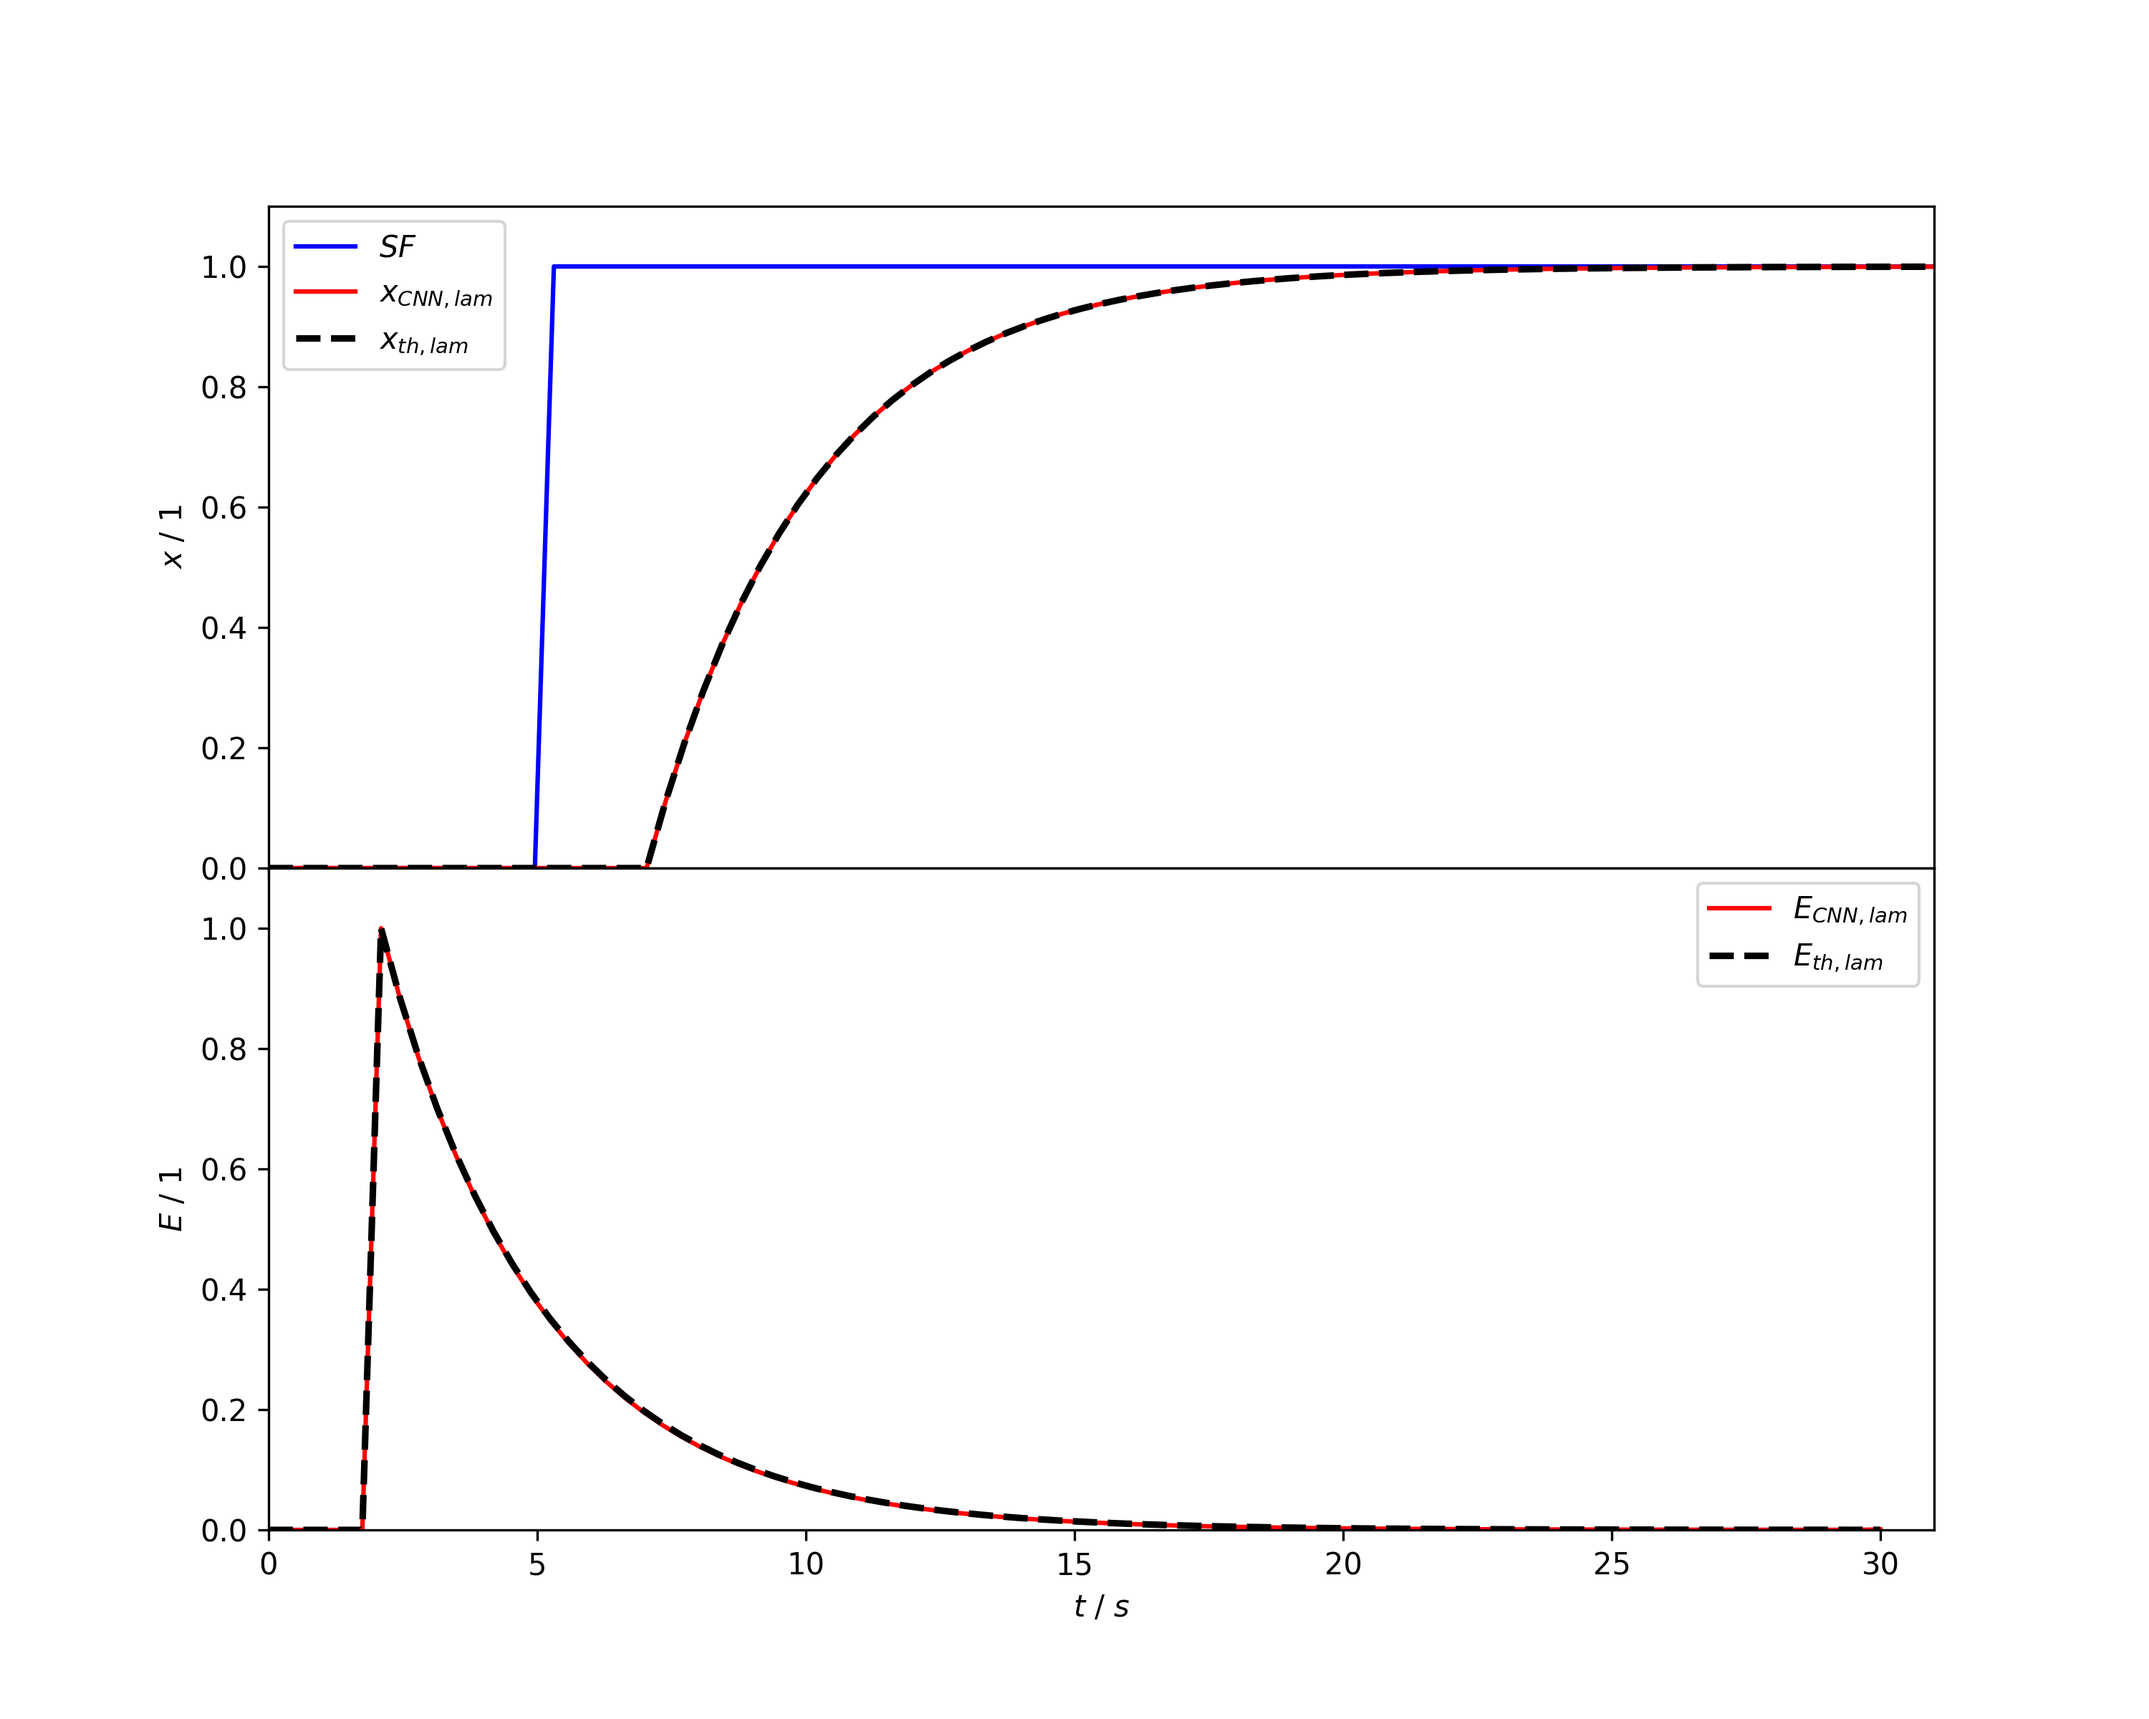
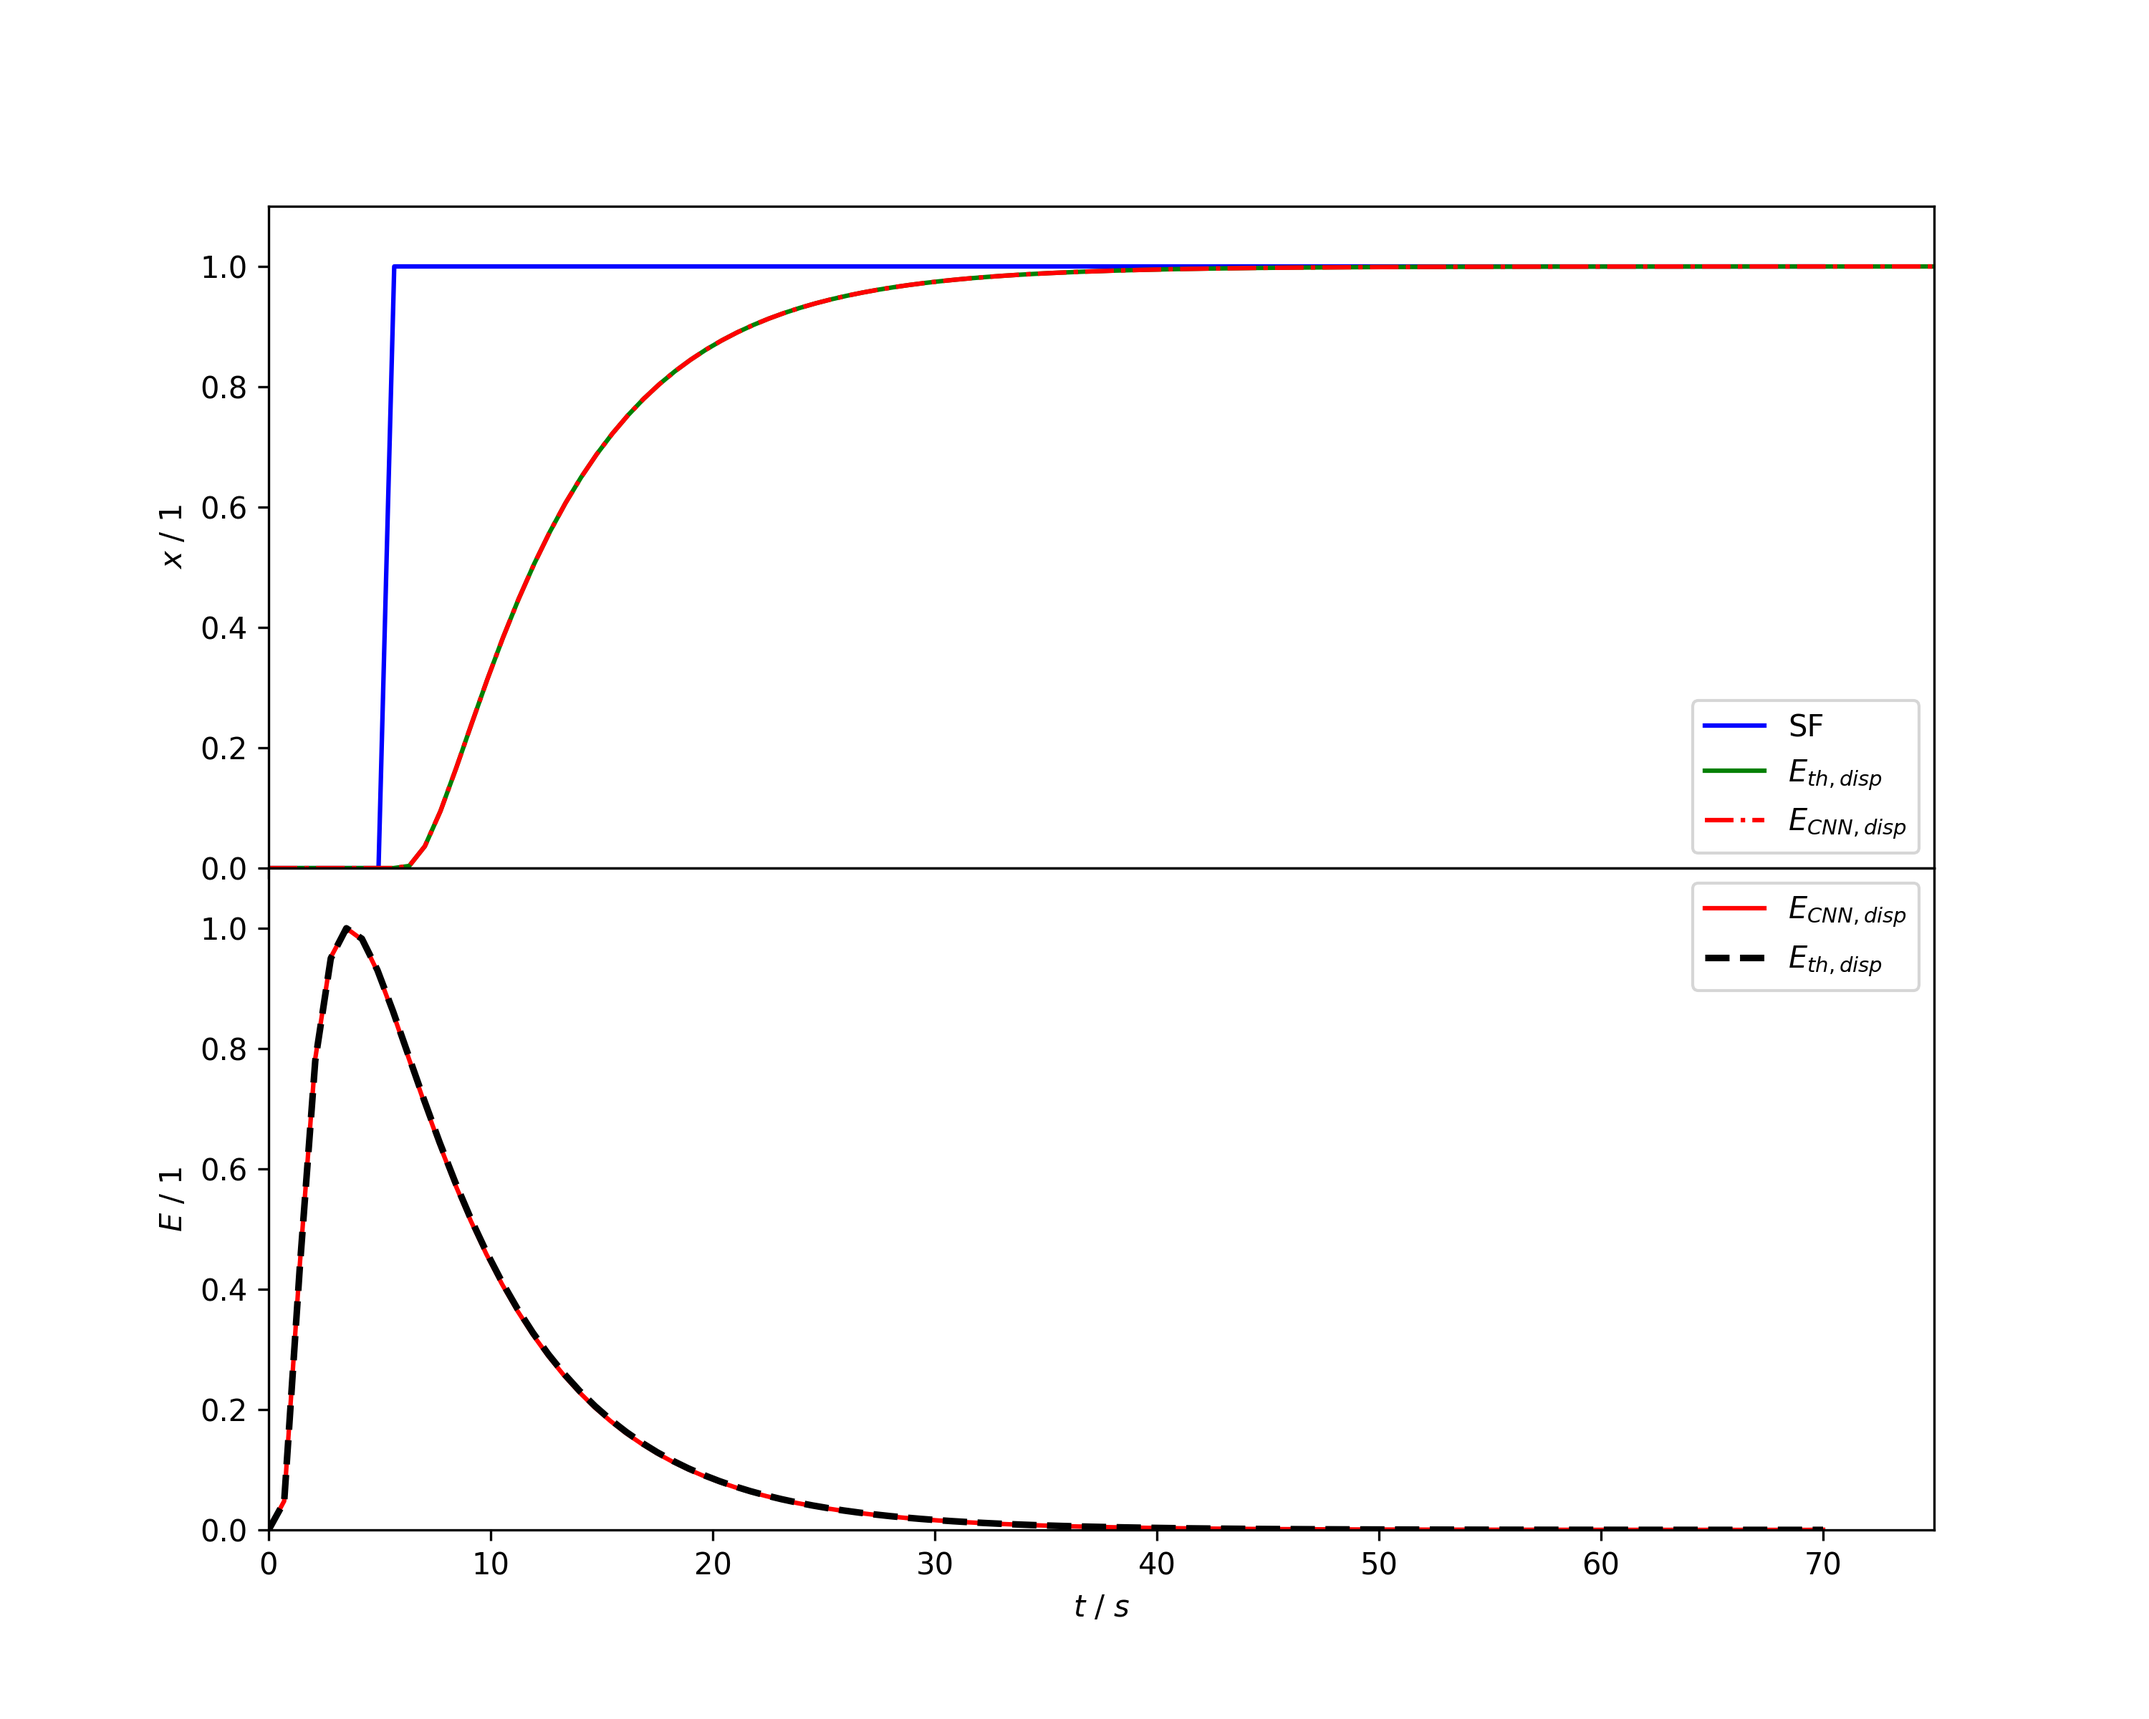
disp model

diff --git a/Experiments/Preliminary/Convolution_script/Convolution_022_Dispersion_Model/Convolution_Dispersion_Model_bo_03.py b/Experiments/Preliminary/Convolution_script/Convolution_022_Dispersion_Model/Convolution_Dispersion_Model_bo_03.py
@@ -33,7 +33,7 @@ sys.path.append(module_path)
 tau_5_dir = r'D:\Tuana\nRTD\Experiments\Preliminary\Litrature\Dispersion_Model\Bo3_200disc_140s'
 #tau_5_dir = '/Users/tuanaoyuncu/Documents/GitHub/nRTD/Experiments/Preliminary/Litrature/Dispersion_Model/Bo3_200disc_140s'
 
-epoch=1
+epoch=28000
 n_in_1, n_out_1, n_e_1, = sp.symbols(
     "n_in_1 n_out_1 n_e_1 ", positive=True, real=True
 )
@@ -181,7 +181,7 @@ c_conv = model(c_in)
 E = model.net.E[0]
 t_E =torch.linspace(0, float(t_e_1), int(model.kernel_sizes[0]))
 E = E / E.max()
-t_E_np = np.linspace(0, 75, 100)
+t_E_np = np.linspace(0, t_e_1, n_e_1)
 
 def expected_formula(t):
     return np.where(t > 0, 1/2*(np.sqrt(3/(np.pi*(t/5))))*np.exp(-(3*((1-(t/5))**2))/(4*(t/5))), 0)
@@ -227,33 +227,33 @@ plt.show()
 
 #save_dir = "/Users/tuanaoyuncu/Documents/GitHub/nRTD/Experiments/Preliminary/Convolution_script/Convolution_022_Dispersion_Model"
 save_dir = r'D:\Tuana\nRTD\Experiments\Preliminary\Convolution_script\Convolution_022_Dispersion_Model'
-unified_dir = os.path.join(save_dir, f'Bo_{1}')
+unified_dir = os.path.join(save_dir, f'Bo_{3}_2411')
 os.makedirs(unified_dir, exist_ok=True)
 
 predicted_E = E
 predicted_time = t_E.numpy()               
 expected_E = E_expected_np              
 expected_time = t_E_np
-np.save(os.path.join(unified_dir, 'E_predicted_Bo_1.npy'), predicted_E)
-np.save(os.path.join(unified_dir, 't_E_predicted_Bo_1.npy'), predicted_time)
-np.save(os.path.join(unified_dir, 'E_expected_Bo_1.npy'), expected_E)
-np.save(os.path.join(unified_dir, 't_E_expected_Bo_1.npy'), expected_time)
+np.save(os.path.join(unified_dir, 'E_predicted_Bo_3.npy'), predicted_E)
+np.save(os.path.join(unified_dir, 't_E_predicted_Bo_3.npy'), predicted_time)
+np.save(os.path.join(unified_dir, 'E_expected_Bo_3.npy'), expected_E)
+np.save(os.path.join(unified_dir, 't_E_expected_Bo_3.npy'), expected_time)
 print("saved under:", unified_dir)
 # predicted_E = np.load('/Users/tuanaoyuncu/Documents/GitHub/nRTD/Experiments/Preliminary/Convolution_script/Convolution_016_Dispersion_Model/Bo_1/E_predicted_Bo_1.npy')
 # predicted_time = np.load('/Users/tuanaoyuncu/Documents/GitHub/nRTD/Experiments/Preliminary/Convolution_script/Convolution_016_Dispersion_Model/Bo_1/t_E_predicted_Bo_1.npy')
-predicted_E = np.load(r'D:\Tuana\nRTD\Experiments\Preliminary\Convolution_script\Convolution_022_Dispersion_Model\Bo_1\E_predicted_Bo_1.npy')
-predicted_time = np.load(r'D:\Tuana\nRTD\Experiments\Preliminary\Convolution_script\Convolution_022_Dispersion_Model\Bo_1\t_E_predicted_Bo_1.npy')
-plt.plot(predicted_time, predicted_E, label='$E_{CNN}$', color='orange')
-plt.plot(expected_time, expected_E, label='$E_{th,disp}$', color='purple', linestyle='--')
-plt.xlabel('$t$ / $s$')
-plt.ylabel('$E$ / $1$')
-plt.xlim((predicted_time.min(), predicted_time.max()))
-plt.ylim((0, 1.1))  
-plt.xlim(0,100)
-plt.legend()
-current_date = datetime.datetime.now().strftime("%Y%m%d")
-plt.savefig(f"Figure_E_{current_date}.png", dpi=300)
-plt.show()
+#predicted_E = np.load(r'D:\Tuana\nRTD\Experiments\Preliminary\Convolution_script\Convolution_022_Dispersion_Model\Bo_1\E_predicted_Bo_1.npy')
+#predicted_time = np.load(r'D:\Tuana\nRTD\Experiments\Preliminary\Convolution_script\Convolution_022_Dispersion_Model\Bo_1\t_E_predicted_Bo_1.npy')
+#plt.plot(predicted_time, predicted_E, label='$E_{CNN}$', color='orange')
+#plt.plot(expected_time, expected_E, label='$E_{th,disp}$', color='purple', linestyle='--')
+#plt.xlabel('$t$ / $s$')
+#plt.ylabel('$E$ / $1$')
+#plt.xlim((predicted_time.min(), predicted_time.max()))
+#plt.ylim((0, 1.1))  
+#plt.xlim(0,100)
+#plt.legend()
+#current_date = datetime.datetime.now().strftime("%Y%m%d")
+#plt.savefig(f"Figure_E_{current_date}.png", dpi=300)
+#plt.show()
 
 import torch
 import matplotlib.pyplot as plt
@@ -281,14 +281,14 @@ ax1.plot(
 )
 ax1.set_ylabel(r"$x$ / $1$", )
 ax1.legend(loc='best')
-ax1.set_xlim((0, 20))  
+ax1.set_xlim((0, 50))  
 ax1.set_ylim((-0.1, 1.1))  
 ax2.plot(t_E, E_expected_np, label=r"$E_{(t)}$", color=ICIWcolors.KELLYGREEN)
 ax2.plot(t_E, E, label=r"$\hat{E}_{(t)}$", color="black", linestyle="--")
 ax2.set_xlabel(r"$t$ / $s$")
 ax2.set_ylabel(r"$E$ / $1$")
 ax2.legend(loc='best')
-ax2.set_xlim((0, 20))  
+ax2.set_xlim((0, 50))  
 ax2.set_ylim((-0.1, 1.1)) 
 current_date = datetime.datetime.now().strftime("%Y%m%d")
 plt.savefig(f"Profiles_Bo3_{current_date}.png", dpi=300)

diff --git a/Experiments/Preliminary/Convolution_script/Convolution_022_Dispersion_Model/Convolution_022_Dispersion_Model_Bo10.py b/Experiments/Preliminary/Convolution_script/Convolution_022_Dispersion_Model/Convolution_022_Dispersion_Model_Bo10.py
@@ -33,7 +33,7 @@ sys.path.append(module_path)
 tau_5_dir = r'D:\Tuana\nRTD\Experiments\Preliminary\Litrature\Dispersion_Model\Bo10_200disc_140s'
 #tau_5_dir = '/Users/tuanaoyuncu/Documents/GitHub/nRTD/Experiments/Preliminary/Litrature/Dispersion_Model/Bo3_200disc_140s'
 
-epoch=1
+epoch=35000
 n_in_1, n_out_1, n_e_1, = sp.symbols(
     "n_in_1 n_out_1 n_e_1 ", positive=True, real=True
 )
@@ -239,8 +239,8 @@ np.save(os.path.join(unified_dir, 't_E_predicted_Bo_10.npy'), predicted_time)
 np.save(os.path.join(unified_dir, 'E_expected_Bo_10.npy'), expected_E)
 np.save(os.path.join(unified_dir, 't_E_expected_Bo_10.npy'), expected_time)
 print("saved under:", unified_dir)
-# predicted_E = np.load('/Users/tuanaoyuncu/Documents/GitHub/nRTD/Experiments/Preliminary/Convolution_script/Convolution_016_Dispersion_Model/Bo_1/E_predicted_Bo_1.npy')
-# predicted_time = np.load('/Users/tuanaoyuncu/Documents/GitHub/nRTD/Experiments/Preliminary/Convolution_script/Convolution_016_Dispersion_Model/Bo_1/t_E_predicted_Bo_1.npy')
+# predicted_E = np.load('/Users/tuanaoyuncu/Documents/GitHub/nRTD/Experiments/Preliminary/Convolution_script/Convolution_016_Dispersion_Model/Bo_10/E_predicted_Bo_1.npy')
+# predicted_time = np.load('/Users/tuanaoyuncu/Documents/GitHub/nRTD/Experiments/Preliminary/Convolution_script/Convolution_016_Dispersion_Model/Bo_10/t_E_predicted_Bo_1.npy')
 predicted_E = np.load(r'D:\Tuana\nRTD\Experiments\Preliminary\Convolution_script\Convolution_022_Dispersion_Model\Bo_10\E_predicted_Bo_1.npy')
 predicted_time = np.load(r'D:\Tuana\nRTD\Experiments\Preliminary\Convolution_script\Convolution_022_Dispersion_Model\Bo_10\t_E_predicted_Bo_1.npy')
 plt.plot(predicted_time, predicted_E, label='$E_{CNN}$', color='orange')

diff --git a/Experiments/Preliminary/Convolution_script/Convolution_022_Dispersion_Model/Convolution_022_Dispersion_Model_bo_1.py b/Experiments/Preliminary/Convolution_script/Convolution_022_Dispersion_Model/Convolution_022_Dispersion_Model_bo_1.py
@@ -33,7 +33,7 @@ sys.path.append(module_path)
 tau_5_dir = r'D:\Tuana\nRTD\Experiments\Preliminary\Litrature\Dispersion_Model\Bo1_200disc_140s'
 #tau_5_dir = '/Users/tuanaoyuncu/Documents/GitHub/nRTD/Experiments/Preliminary/Litrature/Dispersion_Model/Bo3_200disc_140s'
 
-epoch=1
+epoch=18000
 n_in_1, n_out_1, n_e_1, = sp.symbols(
     "n_in_1 n_out_1 n_e_1 ", positive=True, real=True
 )
@@ -281,14 +281,14 @@ ax1.plot(
 )
 ax1.set_ylabel(r"$x$ / $1$", )
 ax1.legend(loc='best')
-ax1.set_xlim((0, 100))  
+ax1.set_xlim((0, 70))  
 ax1.set_ylim((-0.1, 1.1))  
 ax2.plot(t_E, E_expected_np, label=r"$E_{(t)}$", color=ICIWcolors.KELLYGREEN)
 ax2.plot(t_E, E, label=r"$\hat{E}_{(t)}$", color="black", linestyle="--")
 ax2.set_xlabel(r"$t$ / $s$")
 ax2.set_ylabel(r"$E$ / $1$")
 ax2.legend(loc='best')
-ax2.set_xlim((0, 100))  
+ax2.set_xlim((0, 70))  
 ax2.set_ylim((-0.1, 1.1)) 
 current_date = datetime.datetime.now().strftime("%Y%m%d")
 plt.savefig(f"Profiles_Bo1_{current_date}.png", dpi=300)

diff --git a/Experiments/Preliminary/Convolution_script/Convolution_024_Cholete_Model/Convolution_024_Cholete_Model_Bo_03.py b/Experiments/Preliminary/Convolution_script/Convolution_024_Cholete_Model/Convolution_024_Cholete_Model_Bo_03.py
@@ -21,12 +21,12 @@ from sympy import ceiling
 
 if wandb.run is not None:
     wandb.finish()
-
-Bo_dir = '/Users/tuanaoyuncu/Documents/GitHub/nRTD/Experiments/Preliminary/Litrature/Cholete_Model/beta0.3_n'
+Bo_dir = r'D:\Tuana\nRTD\Experiments\Preliminary\Litrature\Cholete_Model\beta0.3_n'
+#Bo_dir = '/Users/tuanaoyuncu/Documents/GitHub/nRTD/Experiments/Preliminary/Litrature/Cholete_Model/beta0.3_n'
 t_conv_tau = torch.tensor(np.load(os.path.join(Bo_dir, 'time.npy')), dtype=torch.float32).unsqueeze(0).unsqueeze(0)
 c_out_tau = torch.tensor(np.load(os.path.join(Bo_dir, 'concentration.npy')), dtype=torch.float32).unsqueeze(0).unsqueeze(0)
 
-epoch=15000
+epoch=100000
 n_in_1, n_out_1, n_e_1, = sp.symbols(
     "n_in_1 n_out_1 n_e_1 ", positive=True, real=True
 )

diff --git a/Experiments/Preliminary/Convolution_script/Convolution_024_Cholete_Model/Convolution_024_Cholete_Model_Bo_09.py b/Experiments/Preliminary/Convolution_script/Convolution_024_Cholete_Model/Convolution_024_Cholete_Model_Bo_09.py
@@ -22,11 +22,12 @@ from sympy import ceiling
 if wandb.run is not None:
     wandb.finish()
 
-Bo_dir = '/Users/tuanaoyuncu/Documents/GitHub/nRTD/Experiments/Preliminary/Litrature/Cholete_Model/beta0.9_nn'
+#Bo_dir = '/Users/tuanaoyuncu/Documents/GitHub/nRTD/Experiments/Preliminary/Litrature/Cholete_Model/beta0.9_nn'
+Bo_dir = r'D:\Tuana\nRTD\Experiments\Preliminary\Litrature\Cholete_Model\beta0.9_n'
 t_conv_tau = torch.tensor(np.load(os.path.join(Bo_dir, 'time.npy')), dtype=torch.float32).unsqueeze(0).unsqueeze(0)
 c_out_tau = torch.tensor(np.load(os.path.join(Bo_dir, 'concentration.npy')), dtype=torch.float32).unsqueeze(0).unsqueeze(0)
 
-epoch=15000
+epoch=100000
 n_in_1, n_out_1, n_e_1, = sp.symbols(
     "n_in_1 n_out_1 n_e_1 ", positive=True, real=True
 )

diff --git a/Experiments/Preliminary/Convolution_script/Convolution_024_Cholete_Model/Convolution_024_Cholete_Model_Bo_01.py b/Experiments/Preliminary/Convolution_script/Convolution_024_Cholete_Model/Convolution_024_Cholete_Model_Bo_01.py
@@ -22,11 +22,11 @@ from sympy import ceiling
 if wandb.run is not None:
     wandb.finish()
 
-Bo_dir = '/Users/tuanaoyuncu/Documents/GitHub/nRTD/Experiments/Preliminary/Litrature/Cholete_Model/beta0.1_n'
+Bo_dir = r'D:\Tuana\nRTD\Experiments\Preliminary\Litrature\Cholete_Model\beta0.1_n'
 t_conv_tau = torch.tensor(np.load(os.path.join(Bo_dir, 'time.npy')), dtype=torch.float32).unsqueeze(0).unsqueeze(0)
 c_out_tau = torch.tensor(np.load(os.path.join(Bo_dir, 'concentration.npy')), dtype=torch.float32).unsqueeze(0).unsqueeze(0)
 
-epoch=15000
+epoch=100000
 n_in_1, n_out_1, n_e_1, = sp.symbols(
     "n_in_1 n_out_1 n_e_1 ", positive=True, real=True
 )
